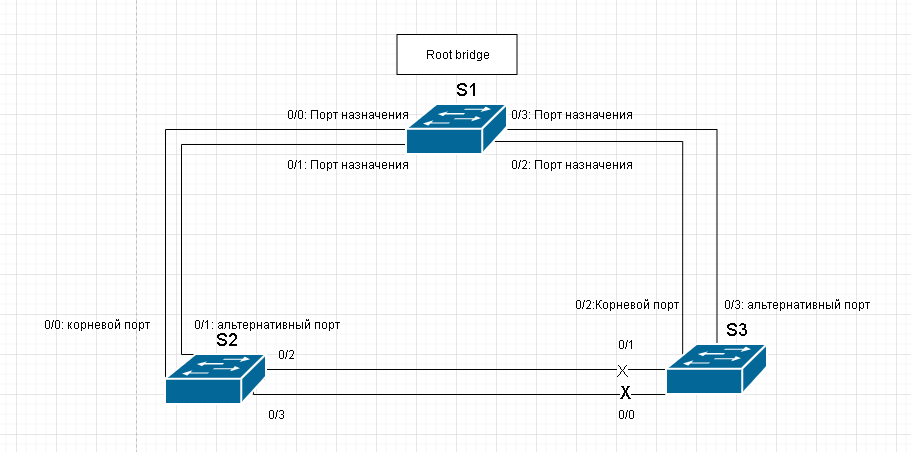
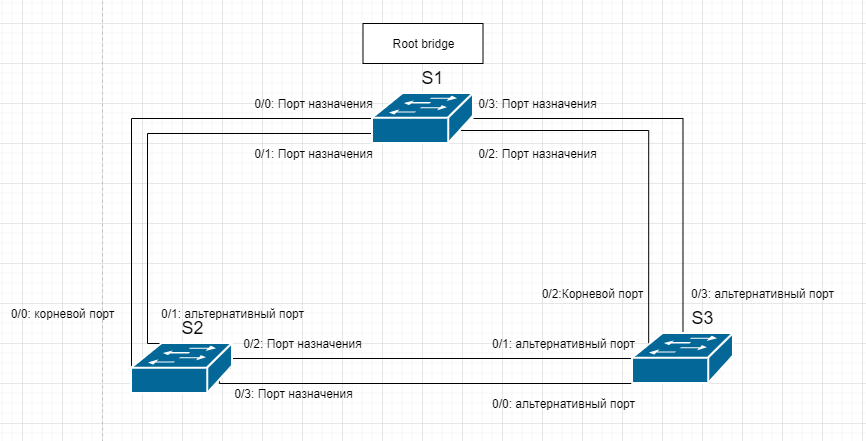
1

Changed region(s): [[0.0, 0.059, 0.9665, 0.9433], [0.6236, 0.6485, 0.7483, 0.7075]]

diff --git a/3_lab/README.md b/3_lab/README.md
@@ -84,17 +84,46 @@ S1(config-line)#logging synchronousip a
 + Приоритеты у коммутаторов одинаковые. А вот Maс у S1 меньше. Соответственно BID идентификатор тоже.Он и будет корневым.
 
 Какие порты на коммутаторе являются корневыми портами?
-+ Корневой порт это порт который имееет кратчайший путь до корневого моста.
++ Корневой порт может быть только один - это порт который имееет наименьшую стоимость до корневого моста.
+  Может Выбирается на основе меньшей стимости. В случае совпадения, выбирается на основе BID, в случае совпадения BID, то на основе Port id
 
 Какие порты на коммутаторе являются назначенными портам?  
-+ Это порты не являющиеся root портами, альтернативными портами и направлены от рута.
++ Это порты через которые проложен кратчаший путь до корневого моста
+  Так же как и корневой 
 
 Какой порт отображается в качестве альтернативного и в настоящее время заблокирован? 
 В случае когда на коммутатор пришла BPDU с изменением топологии. Коммутатор выбирает альтернатинвый порт,
  который может заменить корневой порт в случае выхода из строя основного канала,  исходя:  
-+ из стоимости BID соседнего(их) коммутатора
-+ из приоритета порта
-+ из названия порта у вышестояшего коммутатора в дереве
+   + из стоимости порта
+   + из BID соседнего(их) коммутатора
+   + из приоритета порта у вышестояшего коммутатора в дереве
 
 
 #### Часть 3:	Наблюдение за процессом выбора протоколом STP порта, исходя из стоимости портов
+
+STA выбирает какие порты будут заблокированы изходя из стоимости. В случае если стоимости портовравны, процесс сравнивает BID. Если BID равн,то выбирает по приоритету портов.
+
+По Части 2 мы видим, что S3 содержит альтернативный порт. 
+
+Изменим стоимость порта на S3
+
+10 рис.
+11 рис.
+12 рис.
+
+Почему протокол spanning-tree заменяет ранее заблокированный порт на назначенный порт и блокирует порт, который был назначенным портом на другом коммутаторе?
++ Потому что пересчиталась стоимость до корневого порта на S2 и S3. И на S3 заблокированном порту стоимость стала меньше, чем на S2 и роль порта стала Desg.
+
+Удалим созданную запись стоимости порта.
+
+
+
+#### Часть 4:	Наблюдение за процессом выбора протоколом STP порта, исходя из приоритета портов
+
+Активируем избыточные порты
+
+Какой порт выбран протоколом STP в качестве порта корневого моста на каждом коммутаторе некорневого моста? 
++ Порт со сторны корневого моста с меньшим приоритетом порта.
+
+Почему протокол STP выбрал эти порты в качестве портов корневого моста на этих коммутаторах?
++ Так как Идентификаторы моста одинаковые, стоимость порта тоже. То корневые порты будут выбираться в зависимости от приоритета порта корневого моста.
